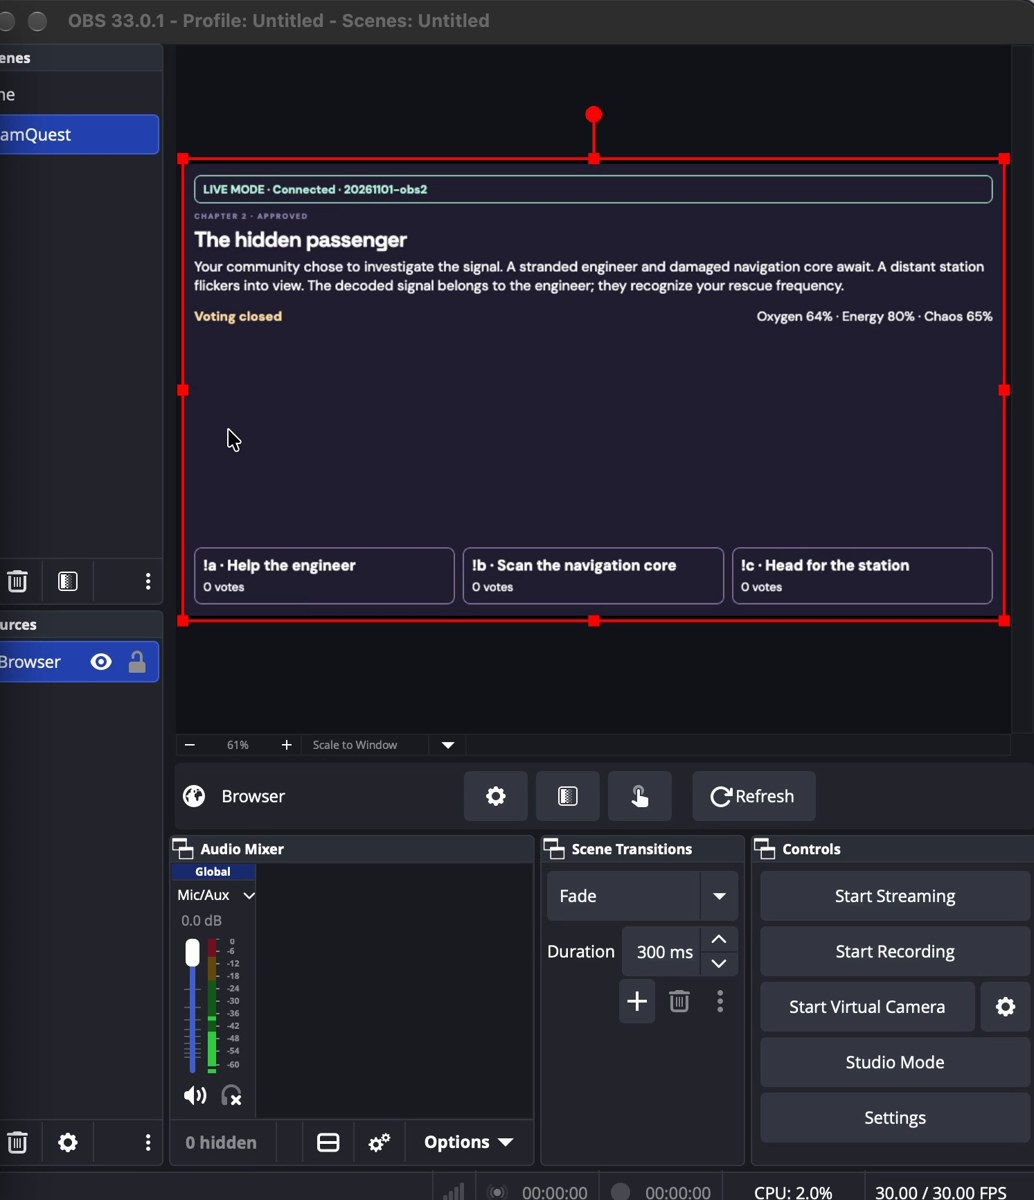
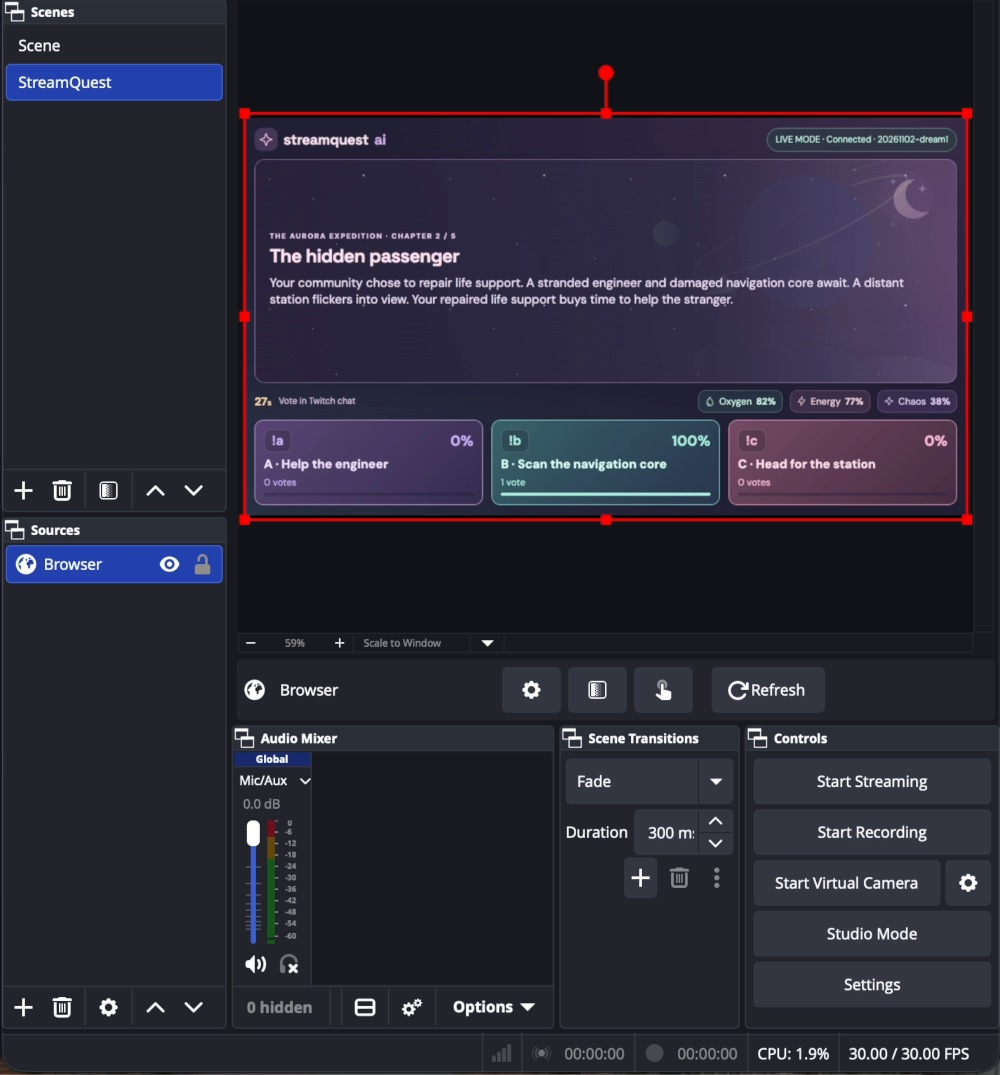
Update README gallery with current dreamy overlay demo captures

diff --git a/README.md b/README.md
@@ -35,7 +35,7 @@ A colourful host dashboard with story narration, chapter progress, resource card
 
 ![StreamQuest AI dashboard with space artwork, resources and A/B/C choices](docs/images/dashboard.jpg)
 
-*Dashboard capture from the browser preview; the preview is labelled as sample content.*
+*Actual local host dashboard captured from the supplied demo video, with story progress and resource values.*
 
 ### Stream operations · OBS
 
@@ -43,20 +43,20 @@ A separate, read-only Browser Source keeps host controls off the broadcast.
 
 <p align="center"><img src="docs/images/stream-ops.jpg" width="760" alt="StreamQuest AI running inside OBS Studio"></p>
 
-*Actual OBS capture from the verified `20261101-obs2` revision. The current `20261102-dream1` skin adds dreamy artwork and colourful voting cards; this older capture documents the working integration.*
+*Current `20261102-dream1` overlay captured inside OBS: Chapter 2, synchronized countdown, and one vote for B.*
 
 ### Choice Consequences Reveal
 
 ![Actual vote result, resource changes and newly gained story memory in OBS](docs/images/choice-reveal.jpg)
 
-*Actual result capture from revision `20261101-obs2`: one vote for B, deterministic resource changes and Navigation mapped.*
+*Current dreamy result card: one vote for B, oxygen −6 after the earlier life-support bonus, energy −5, chaos +15, and Navigation mapped.*
 
 <details>
-<summary><b>View the approval gate on the stream overlay</b></summary>
+<summary><b>View the current overlay up close</b></summary>
 
-![OBS overlay holding Chapter 2 while awaiting host approval](docs/images/obs-overlay.jpg)
+![Dreamy OBS overlay showing Chapter 2, countdown and all three voting choices](docs/images/obs-overlay.jpg)
 
-The previous chapter stays visible while the host reviews the private draft. Approval advances the broadcast to the next chapter.
+All three choices, counts and percentages fit in the captured overlay. After resolution, the previous chapter stays visible until host approval advances the broadcast.
 
 </details>
 
@@ -239,7 +239,7 @@ Node is needed only for JavaScript checks. Chrome/Chromium is needed for browser
 | **27 tests passed, no skips** | User-reported local Mac run on 1 November 2026, before the dreamy overlay restyle |
 | **243 decision paths** | Automated five-round resource and story-memory coverage |
 | **Real Twitch + OBS flow** | Manually confirmed at 1000 × 550 for `20261101-obs2`: votes, result reveal, waiting for approval, next chapter |
-| **Current dreamy overlay** | Node checks passed in the development environment; six HTTP tests were blocked by socket permissions and Chrome could not launch there. Fresh visual/layout verification remains needed for this revision. |
+| **Current dreamy overlay** | The supplied 2 November demo recording shows `20261102-dream1` in OBS, synchronized votes/countdown, consequence reveals and chapter progression. Exact source dimensions and reveal duration were not measured from the recording. Automated reruns for this revision remain unconfirmed. |
 
 These checks cover vote replacement, event deduplication, ties, zero-vote defaults, persistence, permissions, result accuracy and draft redaction. Synthetic events and automated browser tests do not establish real Twitch delivery or an actual broadcast.
 
